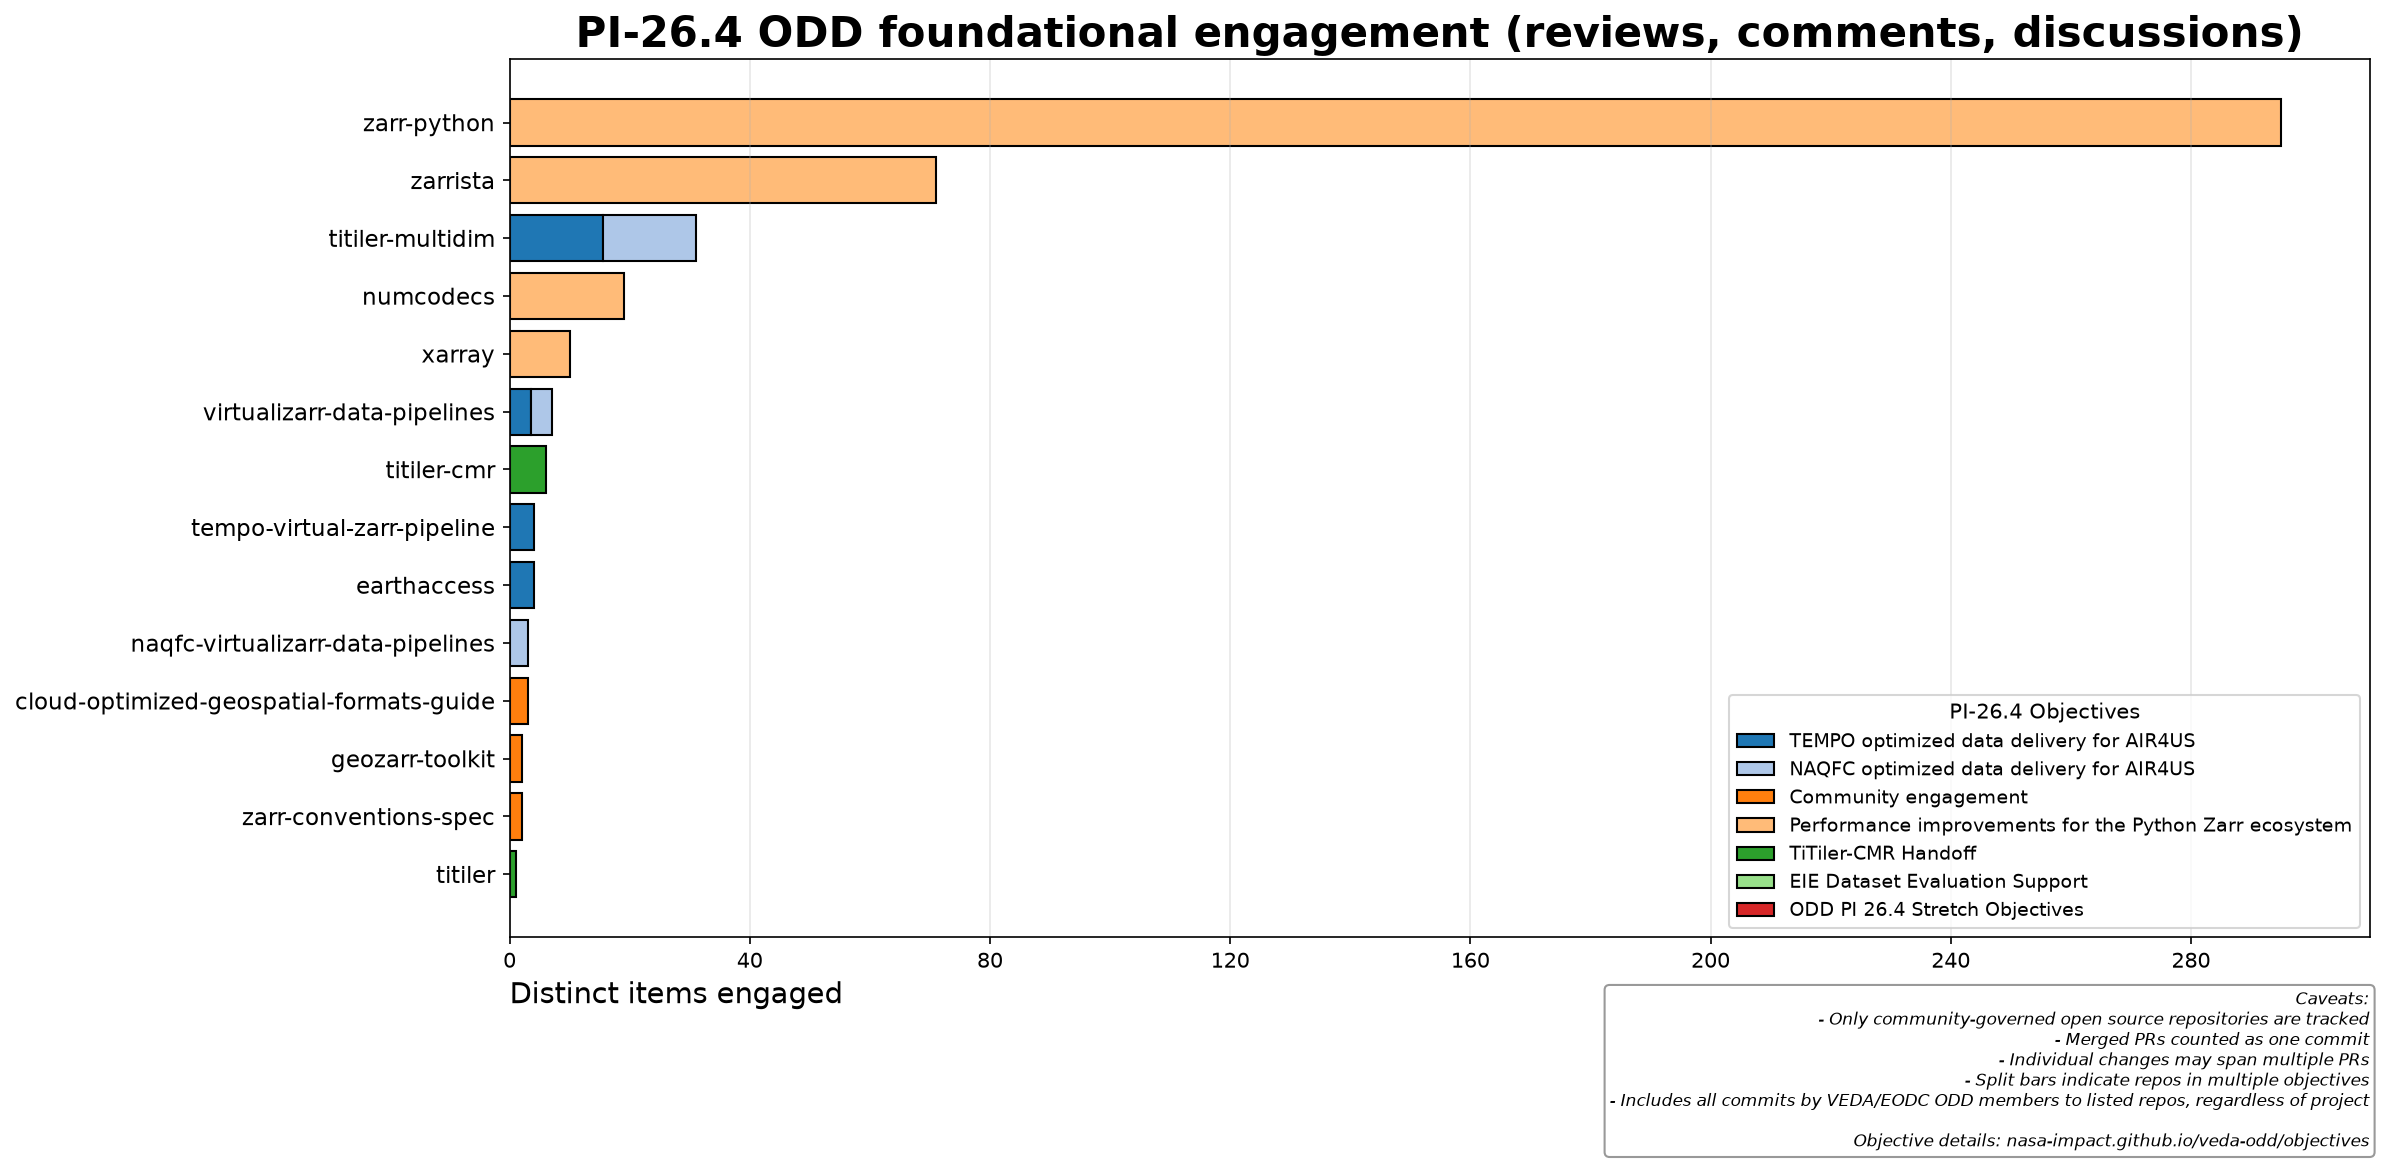
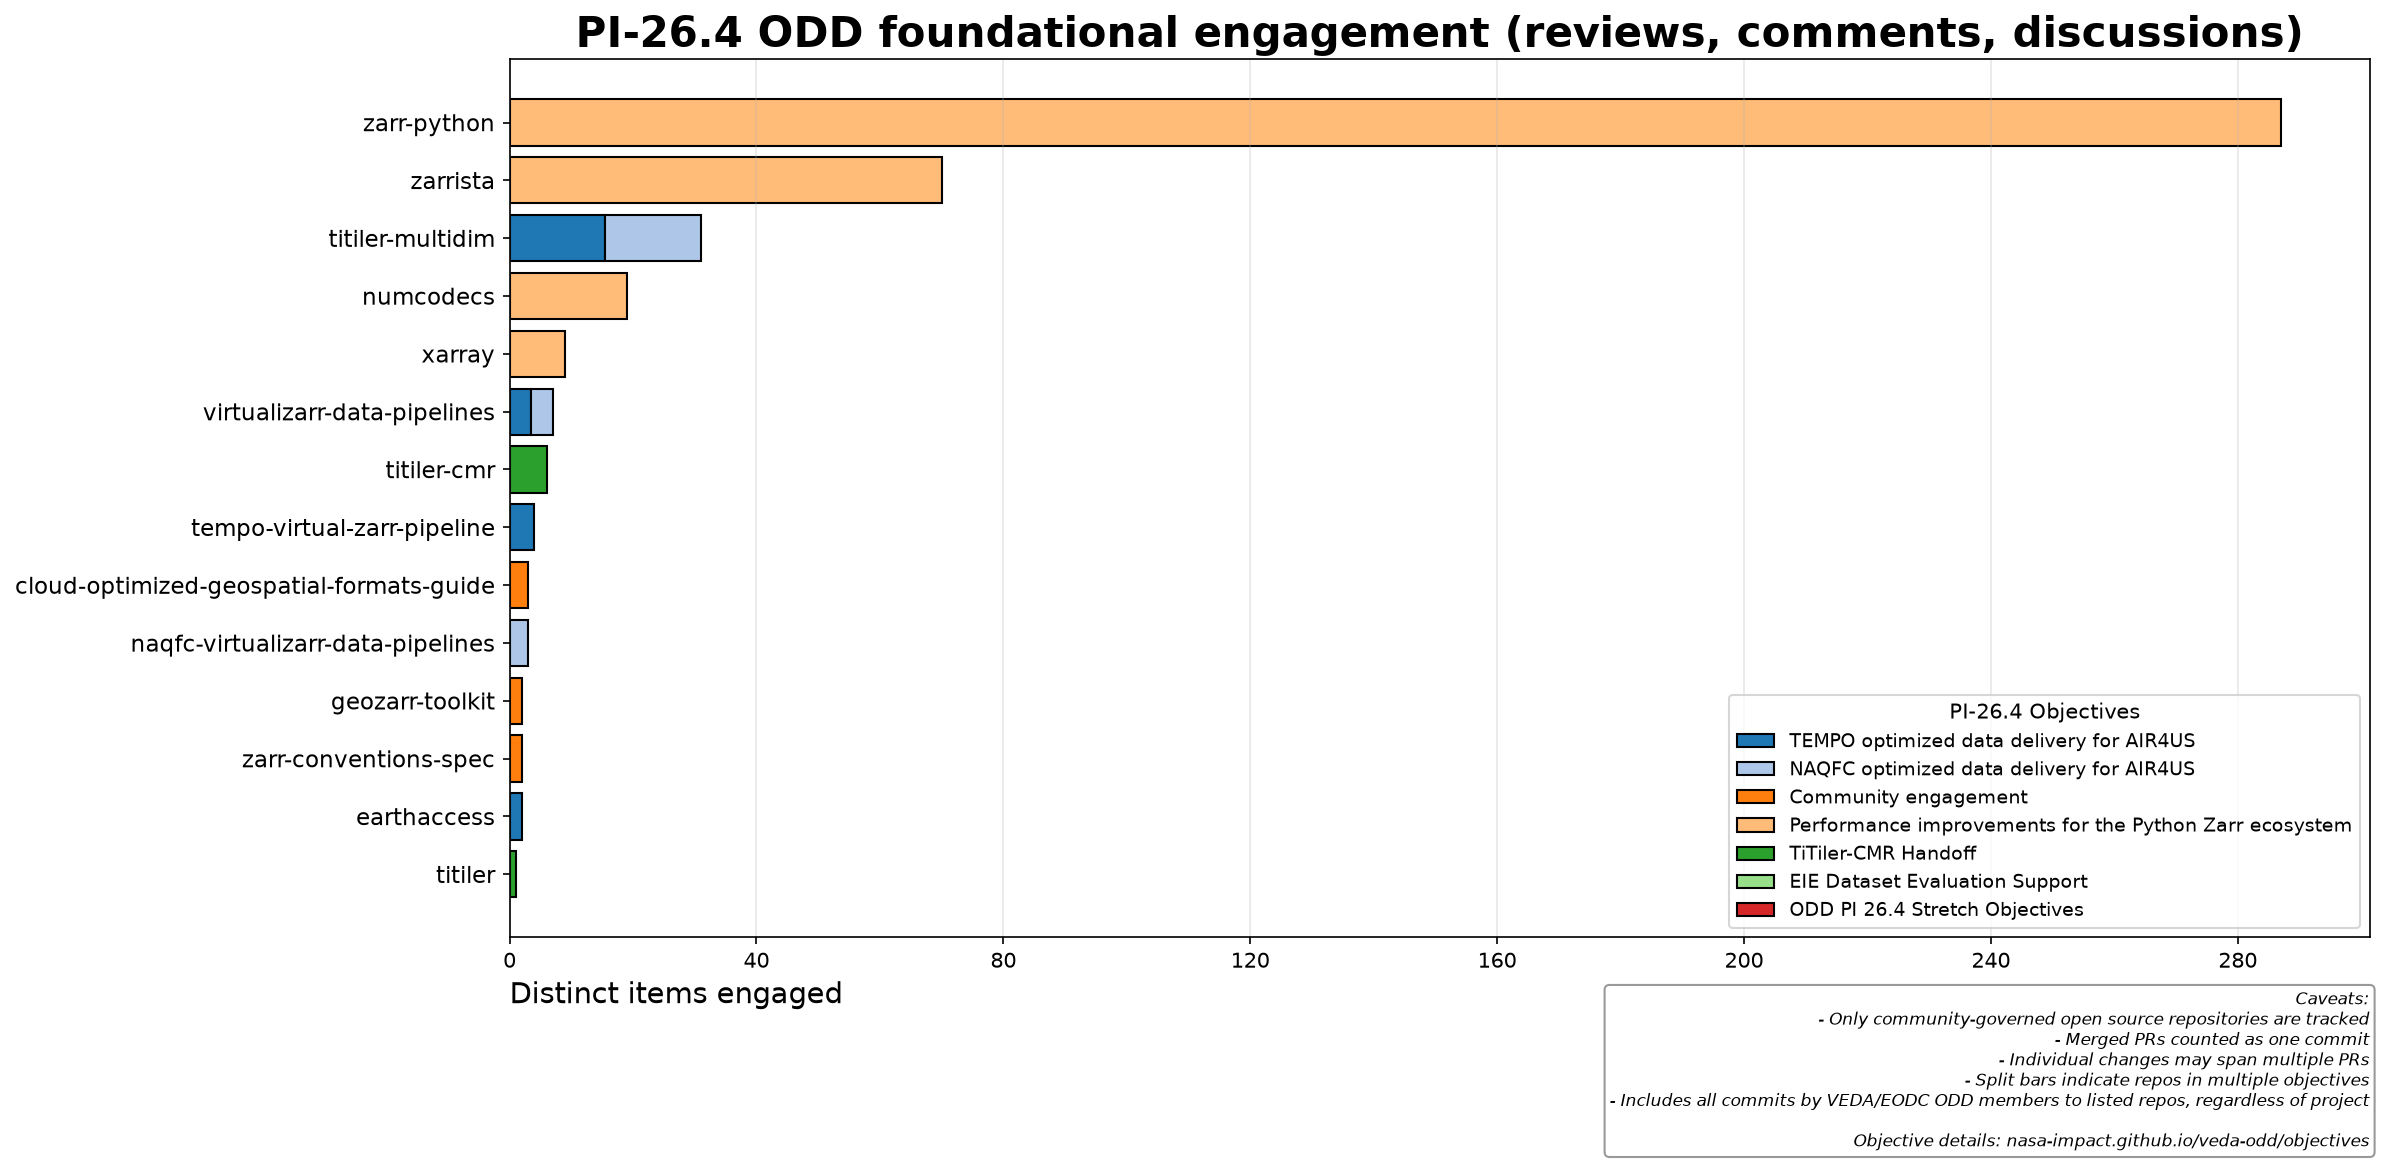
Update reports for 41458043004

diff --git a/docs/objectives.md b/docs/objectives.md
@@ -25,15 +25,15 @@ This page tracks quarterly objectives for the VEDA/EODC ODD team and the open-so
 ## Past PIs
 
 <details markdown>
-<summary>PI 26.3 (8 original objectives; 4 closed as completed; 0 closed as not planned; 4 still open)</summary>
+<summary>PI 26.3 (8 original objectives; 6 closed as completed; 0 closed as not planned; 2 still open)</summary>
 
 | # | Objective | State | Contributors |
 |---|-----------|-------|--------------|
-| [#307](https://github.com/NASA-IMPACT/veda-odd/issues/307) | 📈 Finalize Design for Zarr + VirtualiZarr Time ... | open | hrodmn |
+| [#307](https://github.com/NASA-IMPACT/veda-odd/issues/307) | 📈 Finalize Design for Zarr + VirtualiZarr Time ... | closed (completed) | hrodmn |
 | [#346](https://github.com/NASA-IMPACT/veda-odd/issues/346) | 🤖 Develop + Maintain the Virtual Zarr Ecosystem | closed (completed) | sharkinsspatial, maxrjones, tylanderson, HarshiniGirish |
 | [#347](https://github.com/NASA-IMPACT/veda-odd/issues/347) | 🌳 Evolve the Zarr Ecosystem | closed (completed) | d-v-b, chuckwondo, maxrjones |
 | [#348](https://github.com/NASA-IMPACT/veda-odd/issues/348) | 📝 Cloud-Optimized Data Guidance | open | abarciauskas-bgse, hrodmn, siddharth0248 |
-| [#349](https://github.com/NASA-IMPACT/veda-odd/issues/349) | 🤗 Community Engagement | open | sharkinsspatial, chuckwondo, maxrjones, abarciauskas-bgse |
+| [#349](https://github.com/NASA-IMPACT/veda-odd/issues/349) | 🤗 Community Engagement | closed (completed) | sharkinsspatial, chuckwondo, maxrjones, abarciauskas-bgse |
 | [#350](https://github.com/NASA-IMPACT/veda-odd/issues/350) | 🛠 TiTiler-CMR Support | closed (completed) | chuckwondo, abarciauskas-bgse |
 | [#351](https://github.com/NASA-IMPACT/veda-odd/issues/351) | 🛰 Analytics-scale metadata stores | closed (completed) | sharkinsspatial, hrodmn |
 | [#352](https://github.com/NASA-IMPACT/veda-odd/issues/352) | 🌐 Browser-based visualization + analysis | open | abarciauskas-bgse, kylebarron |
@@ -47,15 +47,15 @@ This page tracks quarterly objectives for the VEDA/EODC ODD team and the open-so
 </details>
 
 <details markdown>
-<summary>PI 26.2 (7 original objectives; 4 closed as completed; 0 closed as not planned; 3 still open)</summary>
+<summary>PI 26.2 (7 original objectives; 6 closed as completed; 0 closed as not planned; 1 still open)</summary>
 
 | # | Objective | State | Contributors |
 |---|-----------|-------|--------------|
 | [#304](https://github.com/NASA-IMPACT/veda-odd/issues/304) | 🤖Create virtual Zarr stores for high priority d... | closed (completed) | tylanderson |
-| [#305](https://github.com/NASA-IMPACT/veda-odd/issues/305) | 🛠 TiTiler-CMR maintenance + performance | open | chuckwondo, hrodmn |
+| [#305](https://github.com/NASA-IMPACT/veda-odd/issues/305) | 🛠 TiTiler-CMR maintenance + performance | closed (completed) | chuckwondo, hrodmn |
 | [#306](https://github.com/NASA-IMPACT/veda-odd/issues/306) | 🤗 Support community adoption of the technologie... | closed (completed) | chuckwondo, maxrjones, abarciauskas-bgse |
 | [#308](https://github.com/NASA-IMPACT/veda-odd/issues/308) | 🤪 Expand virtualization support for quirky data... | closed (completed) | maxrjones |
-| [#309](https://github.com/NASA-IMPACT/veda-odd/issues/309) | 🛰 Propose unified strategy for virtualization ... | open | sharkinsspatial, maxrjones, hrodmn |
+| [#309](https://github.com/NASA-IMPACT/veda-odd/issues/309) | 🛰 Propose unified strategy for virtualization ... | closed (completed) | sharkinsspatial, maxrjones, hrodmn |
 | [#319](https://github.com/NASA-IMPACT/veda-odd/issues/319) | 🌐 Client-side raster rendering (deck.gl-raster) | closed (completed) | kylebarron |
 | [#331](https://github.com/NASA-IMPACT/veda-odd/issues/331) | WASM chunk codec research and PoC | open | jkeifer |
 
@@ -64,12 +64,12 @@ This page tracks quarterly objectives for the VEDA/EODC ODD team and the open-so
 </details>
 
 <details markdown>
-<summary>PI 26.1 (5 original objectives; 3 closed as completed; 0 closed as not planned; 2 still open)</summary>
+<summary>PI 26.1 (5 original objectives; 5 closed as completed; 0 closed as not planned)</summary>
 
 | # | Objective | State | Contributors |
 |---|-----------|-------|--------------|
-| [#244](https://github.com/NASA-IMPACT/veda-odd/issues/244) | 🗺 Add dynamic tiling and timeseries support fo... | open | jbusecke, hrodmn |
-| [#245](https://github.com/NASA-IMPACT/veda-odd/issues/245) | 🌍 Add dynamic tiling and timeseries support for... | open | abarciauskas-bgse, hrodmn |
+| [#244](https://github.com/NASA-IMPACT/veda-odd/issues/244) | 🗺 Add dynamic tiling and timeseries support fo... | closed (completed) | jbusecke, hrodmn |
+| [#245](https://github.com/NASA-IMPACT/veda-odd/issues/245) | 🌍 Add dynamic tiling and timeseries support for... | closed (completed) | abarciauskas-bgse, hrodmn |
 | [#246](https://github.com/NASA-IMPACT/veda-odd/issues/246) | 🤖 Support virtualization of additional data pro... | closed (completed) | sharkinsspatial, maxrjones, jbusecke |
 | [#247](https://github.com/NASA-IMPACT/veda-odd/issues/247) | 🛰 Explore scalable, cloud native approaches for... | closed (completed) | sharkinsspatial, kylebarron |
 | [#248](https://github.com/NASA-IMPACT/veda-odd/issues/248) | 🤗 Support community adoption of the technologie... | closed (completed) | sharkinsspatial, chuckwondo, maxrjones, abarciauskas-bgse |
